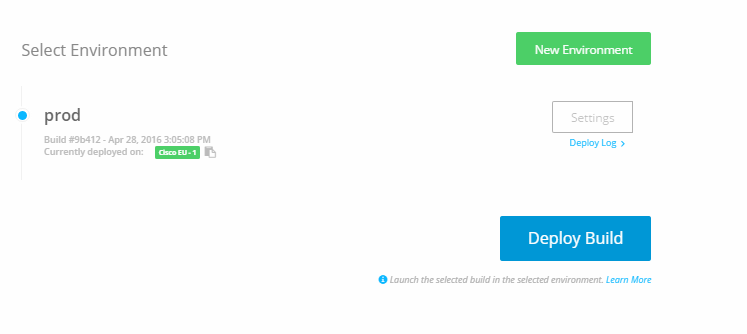
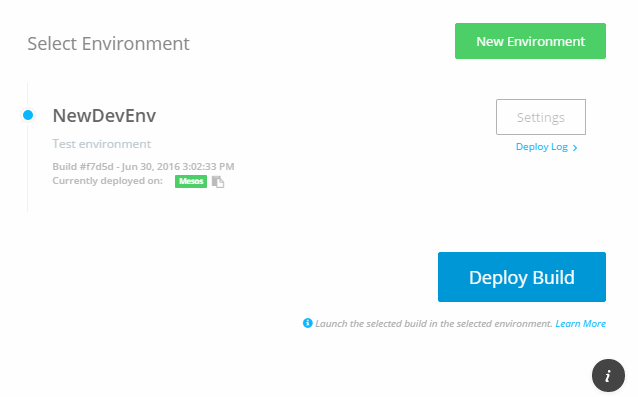
updated content for CICD

diff --git a/labs/shipped-cicd/1.md b/labs/shipped-cicd/1.md
@@ -6,107 +6,40 @@ Using CI software tools, such as Go, you can automate the testing and build a do
 Continuous Deployment (CD) is a practice that closely related to CI. CD deploys the software directly into production that passes the automated tests. By implementing both CI and CD, you not only reduce risks and catch bugs quickly, but also move rapidly to working software.
 
 
-## Prerequisites
-
-Before proceeding, you need to build a project, commit it to git, and deploy it to the environment. 
-See <a href="https://developer.cisco.com/site/shipped/" target="_blank">Shipped Getting Started Guide</a>.  
-
-
-
 ## Configure Your Project
 
 
 1. Log in to <a href="https://ciscoshipped.io">https://ciscoshipped.io</a>.    
 
-2.  Select a project from **Your Projects** drop-down list. 
+2.  Select a project from **Your Projects** drop-down list. Or create new project.
  
-    ![](posts/files/shipped-cicd/assets/project-select.png)
-  
-3.  Click the **Deploy** tab.  
-
-    ![](posts/files/shipped-cicd/assets/Environment-settings.png)
-
-4.  Select your environment, then click **Settings**.
-    ![](posts/files/shipped-cicd/assets/project-config.png)
-
-**Vijay: What is proper settings here?**
-
-## Add a New Deploy Target
-
-1. Click **+ New Target**, then click **+ Add New Target**. 
-
-    ![](posts/files/shipped-cicd/assets/Environment-target.png)
-
-1. Click **Add Deploy Target**, and select **Marathon**. 
-
-    ![](posts/files/shipped-cicd/assets/Environment-target-marathon.png)
-
-1. Enter information in the following fields:
- - **Name** - The name of your target. 
- - **URL** - The URL of your target and must be in this format, for example,    
-    https://mycorp-control-01.mycorp.shipped.cisco.com:8080
- - **URL Template** - The template must be in this format: for example,    
-    http://%smycorp.shipped.cisco.com
-
-    ![](posts/files/shipped-cicd/assets/Environment-add-deploy-target.png)
-
-1. Optionally, click the checkbox next to **Enable HTTP Authentication**, then enter username and password. 
-
-1. Click **Save**.
-
-## Enable Auto Deploy 
-
-1. Click **Environment Settings**.   
- 
-    ![](posts/files/shipped-cicd/assets/Environment-setting.png)
-
-1. Click the checkbox next to **Auto Deploy**. 
-
-     ![](posts/files/shipped-cicd/assets/Environment-auto.png)
+![](posts/files/shipped-cicd/assets/project-select.png)
 
 
-
-
-**Note to Vijay: I don't know where you got the "Global Configurations" screen**
-
-
-Global Configurations
-![](posts/files/shipped-cicd/assets/13.PNG)
-
-Deployment Target Specific Configurations.
-
-Note : If we change any of the configuration setting here like CPU count, Update Enviroment Variables we need to redeploy our successfull build.
-
-![](posts/files/shipped-cicd/assets/14.PNG)
-
-3 Once done with Enviroment specific setting, We need to redeploy build.
-
-Deploying a build to an environment means that your project will be deployed to the environment you select. It replaces any previous deployment of the build to that environment. 
-
-![](posts/files/shipped-cicd/assets/12.PNG)
-
-4 When the project deployment is completed, we can see URL in green color link like "CISCO EU" for    the build, and progress bar also disappears.
-![](posts/files/shipped-cicd/assets/16.PNG)
-<br/>
-Wow, You have successfully built and deployed your project with custom environment settings.
-
-
-
-
-
-
-2 Add a new Service (Golang for Eg.), you can select from existing buildpacks.
+3. Add a new Service (Golang for Eg.), you can select from existing buildpacks.
 
 ![](posts/files/shipped-cicd/assets/2.PNG)
 
-3 Provide a Service name for this newly created service.
+4. Provide a Service name for this newly created service.
 
 ![](posts/files/shipped-cicd/assets/3.PNG)
 
-4 Click Save Project, this will Create a new git repo with the same service name you have mentioned above, and also make neccesory changes to this repo to be integrated with shipped.
+5. Click Save Project, this will Create a new git repo with the same service name you have mentioned above, and also make neccesory changes to this repo to be integrated with shipped.
 
 ![](posts/files/shipped-cicd/assets/4.PNG)
 
-5 Verify First build- Once you save project, Shipped makes some changes to your repo tobe integrated with shipped.this process also trigger some builds for such commits.
+6. Verify First build- Once you save project, Shipped makes some changes to your repo to be integrated with shipped.this process also trigger some builds for such commits.
 
 ![](posts/files/shipped-cicd/assets/5.PNG)
+
+  
+7.  Click the **Deploy** tab and create new environment.
+
+![](posts/files/shipped-cicd/assets/Environment-add.png)    
+
+8.  Deploy your application.
+    
+![](posts/files/shipped-cicd/assets/12.png)    
+
+
+

diff --git a/labs/shipped-cicd/3.md b/labs/shipped-cicd/3.md
@@ -1,28 +1,24 @@
 # Shipped - CICD
 
-1 Deploy Build to new Environment
+## Environment Configurations
 
-![](posts/files/shipped-cicd/assets/12.PNG)
+1. Click on **Deploy** tab. and click on Settings
 
-2 Make Enviroment for Auto Deploy on successfull build
-
-Global Configurations
 ![](posts/files/shipped-cicd/assets/13.PNG)
 
-Deployment Target Specific Configurations.
-
-Note : If we change any of the configuration setting here like CPU count, Update Enviroment Variables we need to redeploy our successfull build.
+2. Change containers to 3 and click on save button.
 
 ![](posts/files/shipped-cicd/assets/14.PNG)
 
-3 Once done with Enviroment specific setting, We need to redeploy build.
+3. Once done with Enviroment specific setting, We need to redeploy build.
 
 Deploying a build to an environment means that your project will be deployed to the environment you select. It replaces any previous deployment of the build to that environment. 
 
 ![](posts/files/shipped-cicd/assets/12.PNG)
 
 4 When the project deployment is completed, we can see URL in green color link like "CISCO EU" for    the build, and progress bar also disappears.
+
 ![](posts/files/shipped-cicd/assets/16.PNG)
+
 <br/>
 Wow, You have successfully built and deployed your project with custom environment settings.
-

diff --git a/labs/shipped-cicd/2.md b/labs/shipped-cicd/2.md
@@ -1,5 +1,7 @@
 # Shipped - CICD
 
+## Making new changes to Git repo and Redeploy
+
 1 Verify Git Project- Now you should be able to see fully integrated git repo with all neccesory changes done by shipped.
 
 ![](posts/files/shipped-cicd/assets/6.PNG)
@@ -16,10 +18,7 @@
 
 ![](posts/files/shipped-cicd/assets/9.PNG)
 
-5 Create Deployment Environment
+5 Deploy latest build.
 
 ![](posts/files/shipped-cicd/assets/10.PNG)
 
-6 Save Environment
-
-![](posts/files/shipped-cicd/assets/11.PNG)
